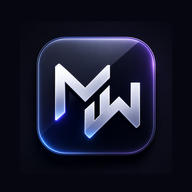
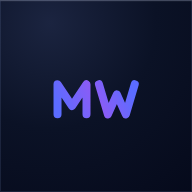
Identidade MW nos ícones, e a cor de destaque que finalmente funciona
§6 — O ÍCONE DO APP DESENHAVA "EW"
O símbolo de dentro do app desenha MW corretamente, mas os PNGs do PWA
eram um desenho DIFERENTE, de outra rodada: um M angular com pé
horizontal no topo que, no tamanho da tela de início do iPhone, lê E. A
identidade tinha dois desenhos e o que aparecia no telefone era o errado.
Os cinco ícones passam a sair do mesmo path do símbolo.

§2 — POR QUE A COR DE DESTAQUE NÃO FUNCIONAVA
O seletor já existia. A causa do defeito tem três partes:
1. gravava `--id-ac`/`--id-ac-2`/`--id-ac-grad` como ESTILO INLINE no
   <html> — e inline vence qualquer folha, inclusive as do tema claro;
2. escrevia TRÊS dos tokens. `--id-ac-suave` e `--id-ac-txt` ficavam com
   o índigo cravado, então ao escolher verde o app ficava verde nos
   botões e roxo nos realces. Era daí a mistura de cores;
3. não tinha versão para o tema claro: a mesma cor luminosa ia para cima
   do branco e o texto branco nela não passava de 4,5:1.

Agora existe UMA SEMENTE por cor e por tema, e todo o resto é derivado
com color-mix — inclusive os dois tokens que faltavam. A função voltou a
ter uma responsabilidade só: escrever `data-acento`. As 80 regras que
leem `--ds-ac` e as 35 que leem `--mw-ac` nascem da mesma semente.
Os literais antigos foram APAGADOS na origem, não sobrescritos (§42).

E EU QUASE CRIEI UMA SEGUNDA IMPLEMENTAÇÃO
Antes de achar a que existia eu já tinha escrito outro seletor de cor,
com UI e lista próprias — seriam dois em Configurações. Apaguei o meu e
[…]

diff --git a/index.html b/index.html
@@ -37,6 +37,12 @@ try {
 (function(){try{
   var d = JSON.parse(localStorage.getItem('mateusWorkspaceV4') || '{}');
   document.documentElement.setAttribute('data-ds-tema', d.theme === 'light' ? 'claro' : 'escuro');
+  /* A COR DE DESTAQUE entra aqui pelo mesmo motivo que o tema: ela é a
+     semente de onde nascem todos os tokens de acento. Se fosse aplicada
+     depois, o primeiro quadro sairia roxo e viraria verde na frente da
+     pessoa — o "pisca" que o §5 manda não existir. */
+  var cor = ((d.settings || {}).accent) || 'indigo';
+  document.documentElement.setAttribute('data-acento', cor);
 }catch(e){ document.documentElement.setAttribute('data-ds-tema','escuro'); }})();
 </script>
 <link rel="stylesheet" href="ds/mw-ds.css">
@@ -22857,12 +22863,13 @@ html:root{
   --id-txt:#e9eefb;
   --id-txt-2:#b0bcd8; /* Etapa 0: era #a6b2ce e batia EXATAMENTE em 4,5:1 sobre o cartão de entrada — no limite, ou seja, reprovando por arredondamento. Clareado o suficiente para sair do fio da navalha. */
   --id-txt-3:#7b88a6;
-  /* acento: azul que caminha pro violeta */
-  --id-ac:#5b6cff;
-  --id-ac-2:#8b5cf6;
-  --id-ac-grad:linear-gradient(135deg,#4f5bff 0%,#8b5cf6 100%);
-  --id-ac-suave:rgba(91,108,255,.16);
-  --id-ac-txt:#93a3ff;
+  /* O ACENTO SAIU DAQUI (§2, §42).
+     Estes cinco eram hexadecimais escritos à mão, e enquanto existissem
+     não havia como trocar a cor do app sem caçar cada um. Agora eles
+     nascem todos da semente `--sem-1`/`--sem-2`, na folha
+     `mw-acento-configuravel` logo abaixo — uma origem só. Apagar aqui é o
+     conserto na origem; deixar os dois e empurrar o novo com
+     especificidade seria a camada em cima que não pode existir. */
   /* semânticas — cada uma com o par cor/fundo já resolvido */
   --id-ok:#34d399;      --id-ok-bg:rgba(16,185,129,.15);   --id-ok-bd:rgba(16,185,129,.26);
   --id-alerta:#fbbf24;  --id-alerta-bg:rgba(245,158,11,.15); --id-alerta-bd:rgba(245,158,11,.26);
@@ -22891,11 +22898,7 @@ html body.light{
      achatar os dois no mesmo tom só pra passar. */
   --id-txt-2:#4d5875;
   --id-txt-3:#5f6983;
-  --id-ac:#4f5bff;
-  --id-ac-2:#7c3aed;
-  --id-ac-grad:linear-gradient(135deg,#4f5bff 0%,#7c3aed 100%);
-  --id-ac-suave:rgba(79,91,255,.10);
-  --id-ac-txt:#4338ca;
+  /* idem para o tema claro: a semente do claro vive na folha do acento. */
   /* no claro o texto da cor precisa escurecer pra manter AA sobre o
      fundo tonalizado — não basta reusar o tom do escuro */
   --id-ok:#047857;      --id-ok-bg:rgba(5,150,105,.11);    --id-ok-bd:rgba(5,150,105,.24);
@@ -22905,6 +22908,87 @@ html body.light{
   --id-neutro:#475569;  --id-neutro-bg:rgba(71,85,105,.09); --id-neutro-bd:rgba(71,85,105,.18);
   --id-sombra:0 1px 2px rgba(20,40,90,.06),0 10px 28px rgba(20,40,90,.08);
   --id-sombra-alta:0 2px 4px rgba(20,40,90,.08),0 18px 44px rgba(20,40,90,.12);
+}
+</style>
+
+<style id="mw-acento-configuravel">
+/* =====================================================================
+   §2 — A COR DE DESTAQUE, CONFIGURÁVEL
+   =====================================================================
+   Antes desta folha o acento era um par de hexadecimais escritos à mão em
+   `--id-ac` / `--id-ac-2`, e mais uns tantos espalhados. Trocar a cor do
+   app significaria caçar todos eles — que é exatamente como o arquivo
+   ficou com azul, roxo, laranja e verde convivendo sem ninguém mandar.
+
+   Agora existe UMA SEMENTE por tema (`--sem-1`, `--sem-2`) e todo o resto
+   é DERIVADO dela com `color-mix`. Trocar a cor é trocar duas variáveis;
+   as 80 regras que leem `--ds-ac` e as 35 que leem `--mw-ac` acompanham
+   sozinhas, porque as duas famílias passam a nascer da mesma semente.
+
+   Por que semente diferente no claro: a mesma cor não serve nos dois
+   fundos. Sobre azul-noite o acento precisa ser mais luminoso para
+   aparecer; sobre branco precisa ser mais fundo para o texto branco em
+   cima dele passar de 4,5:1. Não é "inverter" — é reequilibrar.
+
+   O acento é IDENTIDADE, não papel de parede (§2): ele pinta o que é
+   ação, estado e marca. Superfície e fundo continuam neutros e frios —
+   é o contraste entre os dois que faz a cor ser percebida como escolha.
+   ===================================================================== */
+
+/* ---- as sementes, por cor (tema ESCURO) ----
+   Os ids são os que o seletor de Configurações já usava — índigo, ciano,
+   violeta, verde, âmbar, rosa. Não inventei nomes novos: a lista de cores
+   já existia, o que faltava era ela chegar até aqui. */
+html:root                          { --sem-1:#5b6cff; --sem-2:#8b5cf6; }  /* índigo — padrão */
+html:root[data-acento="ciano"]     { --sem-1:#0ea5e9; --sem-2:#22d3ee; }
+html:root[data-acento="violeta"]   { --sem-1:#8b5cf6; --sem-2:#d946ef; }
+html:root[data-acento="verde"]     { --sem-1:#10b981; --sem-2:#34d399; }
+html:root[data-acento="ambar"]     { --sem-1:#f59e0b; --sem-2:#fbbf24; }
+html:root[data-acento="rosa"]      { --sem-1:#ec4899; --sem-2:#f472b6; }
+
+/* ---- as sementes, por cor (tema CLARO) ----
+   Mais fundas: a mesma cor que brilha sobre azul-noite fica lavada sobre
+   branco, e o texto branco em cima dela não chega a 4,5:1. Não é inverter,
+   é reequilibrar — que é o que o §4 pede. */
+html:root body.light                        { --sem-1:#4f5bff; --sem-2:#7c3aed; }
+html:root[data-acento="ciano"] body.light   { --sem-1:#0369a1; --sem-2:#0e7490; }
+html:root[data-acento="violeta"] body.light { --sem-1:#7c3aed; --sem-2:#a21caf; }
+html:root[data-acento="verde"] body.light   { --sem-1:#047857; --sem-2:#0f766e; }
+html:root[data-acento="ambar"] body.light   { --sem-1:#b45309; --sem-2:#a16207; }
+html:root[data-acento="rosa"] body.light    { --sem-1:#be185d; --sem-2:#a21caf; }
+
+/* ---- tudo o mais deriva ---- */
+html:root, html:root body.light{
+  --id-ac:      var(--sem-1);
+  --id-ac-2:    var(--sem-2);
+  --id-ac-grad: linear-gradient(135deg, var(--sem-1) 0%, var(--sem-2) 100%);
+  --id-ac-suave:color-mix(in srgb, var(--sem-1) 15%, transparent);
+  --id-ac-forte:color-mix(in srgb, var(--sem-1) 88%, black);
+  --id-ac-brilho:color-mix(in srgb, var(--sem-1) 38%, transparent);
+}
+/* Texto DA cor sobre superfície: no escuro clareia, no claro escurece —
+   senão um dos dois some no fundo. */
+html:root      { --id-ac-txt: color-mix(in srgb, var(--sem-1) 62%, #ffffff); }
+html:root body.light { --id-ac-txt: color-mix(in srgb, var(--sem-1) 86%, #000000); }
+
+/* ---- transição de tema e de cor (§5) ----
+   Só o que muda de cor transita, e por 240ms. Transicionar `all` faria o
+   app inteiro rastejar a cada troca de tela. */
+html.mw-troca-tema body,
+html.mw-troca-tema .ds-topo,
+html.mw-troca-tema .sidebar,
+html.mw-troca-tema #mwBottomNav,
+html.mw-troca-tema .ds-chapa,
+html.mw-troca-tema .ds-peca,
+html.mw-troca-tema .ds-agora,
+html.mw-troca-tema .ds-btn,
+html.mw-troca-tema .ds-nav-item{
+  transition: background-color 240ms ease, background-image 240ms ease,
+              border-color 240ms ease, color 240ms ease,
+              box-shadow 240ms ease !important;
+}
+@media (prefers-reduced-motion: reduce){
+  html.mw-troca-tema *{ transition: none !important; }
 }
 </style>
 
@@ -24925,10 +25009,33 @@ html body #app .mw-cor:focus-visible{ outline:3px solid color-mix(in srgb,var(--
      aqui repinta navegação, chips, links e marca de uma vez. */
   function aplicaCor(){
     var c = corDe(prefs().accent);
-    var raiz = document.documentElement.style;
-    raiz.setProperty('--id-ac', c.a);
-    raiz.setProperty('--id-ac-2', c.b);
-    raiz.setProperty('--id-ac-grad', 'linear-gradient(135deg,' + c.a + ' 0%,' + c.b + ' 100%)');
+    var raiz = document.documentElement;
+    /* ANTES: esta função gravava --id-ac, --id-ac-2 e --id-ac-grad como
+       ESTILO INLINE no <html>. Três problemas, e todos apareciam na tela:
+
+       1. inline vence qualquer folha, então nenhuma regra CSS conseguia
+          participar da cor — inclusive as do tema claro;
+       2. só três dos tokens de acento eram escritos. `--id-ac-suave` e
+          `--id-ac-txt` continuavam com o valor índigo original, então ao
+          escolher verde o app ficava verde nos botões e ROXO nos realces
+          e nos links. Era daí que vinha a mistura de cores;
+       3. não havia versão para o tema claro: a mesma cor luminosa ia
+          para cima do branco e o texto branco em cima dela não passava
+          de 4,5:1.
+
+       AGORA: escreve só o ATRIBUTO. A folha `mw-acento-configuravel`
+       tem a semente de cada cor nos dois temas e DERIVA todo o resto com
+       color-mix — inclusive os dois tokens que faltavam. A função voltou
+       a ter uma responsabilidade só: dizer qual cor está escolhida. */
+    raiz.setAttribute('data-acento', c.id);
+    var st = raiz.style;
+    st.removeProperty('--id-ac');
+    st.removeProperty('--id-ac-2');
+    st.removeProperty('--id-ac-grad');
+    /* A troca não pode piscar (§5). */
+    raiz.classList.add('mw-troca-tema');
+    clearTimeout(aplicaCor._t);
+    aplicaCor._t = setTimeout(function(){ raiz.classList.remove('mw-troca-tema'); }, 320);
     document.querySelectorAll('#mwCores .mw-cor').forEach(function(bt){
       bt.setAttribute('aria-checked', bt.getAttribute('data-cor') === c.id ? 'true' : 'false');
     });

diff --git a/ds/mw-ds.css b/ds/mw-ds.css
@@ -133,12 +133,17 @@
   --mw-txt-3:var(--mw-p-gelo-500);
   --mw-txt-sobre-acento:#ffffff;
 
-  /* acento */
-  --mw-ac:var(--mw-p-azul-500);
-  --mw-ac-2:var(--mw-p-violeta-500);
-  --mw-ac-txt:var(--mw-p-azul-300);
-  --mw-ac-suave:rgba(91,108,255,.16);
-  --mw-ac-grad:linear-gradient(135deg, var(--mw-p-azul-600) 0%, var(--mw-p-violeta-500) 100%);
+  /* ACENTO — derivado da semente única do app (§2).
+     Os valores da paleta ficam como RECUO: se a folha de acento não
+     estiver carregada (a galeria do sistema, por exemplo), o sistema
+     continua com o par índigo→violeta. Mas dentro do app quem manda é
+     `--id-ac`, que por sua vez nasce de `--sem-1`/`--sem-2` — então a cor
+     escolhida nas Configurações chega aqui sem nenhuma regra a mais. */
+  --mw-ac:var(--id-ac, var(--mw-p-azul-500));
+  --mw-ac-2:var(--id-ac-2, var(--mw-p-violeta-500));
+  --mw-ac-txt:var(--id-ac-txt, var(--mw-p-azul-300));
+  --mw-ac-suave:var(--id-ac-suave, rgba(91,108,255,.16));
+  --mw-ac-grad:var(--id-ac-grad, linear-gradient(135deg, var(--mw-p-azul-600) 0%, var(--mw-p-violeta-500) 100%));
   /* Um véu escuro sobre o gradiente. Texto branco sobre o acento puro mede
      4,0–4,4:1; com o véu passa de 4,5:1 sem mudar a cor percebida. */
   --mw-ac-grad-forte:linear-gradient(rgba(0,0,0,.16), rgba(0,0,0,.16)), var(--mw-ac-grad);
@@ -193,9 +198,9 @@ body.light .ds{
   --mw-txt-3:var(--mw-p-tinta-500);
   --mw-txt-sobre-acento:#ffffff;
 
-  --mw-ac:var(--mw-p-azul-600);
+  --mw-ac:var(--id-ac, var(--mw-p-azul-600));
   --mw-ac-txt:#3a49d8;
-  --mw-ac-suave:rgba(91,108,255,.10);
+  --mw-ac-suave:var(--id-ac-suave, rgba(91,108,255,.10));
 
   /* Medido no pixel: com fundo translúcido (12-14%), o selo no tema claro
      não pinta o suficiente para dominar — quem estabelece o contraste vira a
@@ -237,9 +242,9 @@ body.light .ds{
     --mw-txt-1:var(--mw-p-tinta-900);
     --mw-txt-2:var(--mw-p-tinta-700);
     --mw-txt-3:var(--mw-p-tinta-500);
-    --mw-ac:var(--mw-p-azul-600);
+    --mw-ac:var(--id-ac, var(--mw-p-azul-600));
     --mw-ac-txt:#3a49d8;
-    --mw-ac-suave:rgba(91,108,255,.10);
+    --mw-ac-suave:var(--id-ac-suave, rgba(91,108,255,.10));
     --mw-ok:var(--mw-p-verde-700); --mw-ok-bg:#e2f7f0;  --mw-ok-bd:rgba(4,120,87,.26);
     --mw-alerta:var(--mw-p-ambar-800); --mw-alerta-bg:#fef3e2;  --mw-alerta-bd:rgba(146,64,14,.26);
     --mw-perigo:var(--mw-p-rubro-700); --mw-perigo-bg:#fde9e9;  --mw-perigo-bd:rgba(185,28,28,.26);
@@ -1549,7 +1554,10 @@ body.light .ds{
   flex: 0 0 auto; display: inline-flex; align-items: center; gap: 6px;
   height: 36px; padding: 0 var(--mw-e-3); margin-left: 2px;
   border: 1px solid transparent; border-radius: 999px;
-  background: var(--mw-ac-grad); color: var(--mw-txt-sobre-acento);
+  /* `-grad-forte`, não `-grad`: o gradiente puro do acento dá 4,25:1 com o
+     branco em cima. A variante com véu escuro existe no sistema para
+     exatamente isto, e passa dos 4,5:1 sem mudar a cor percebida. */
+  background: var(--mw-ac-grad-forte); color: var(--mw-txt-sobre-acento);
   font: inherit; font-size: var(--mw-t-micro); font-weight: 650;
   cursor: pointer; box-shadow: var(--mw-sombra-1);
   transition: transform 90ms var(--mw-curva), box-shadow var(--mw-d-rapida) var(--mw-curva);
@@ -1763,3 +1771,32 @@ body.light .ds{
   .ds .ds-med:nth-child(odd){ border-left: 0; }
   .ds .ds-med-n{ font-size: 26px; }
 }
+
+/* ---- SELETOR DE COR DE DESTAQUE (Configurações › Aparência) -------------- */
+.ds .ds-cores{ display: flex; flex-wrap: wrap; gap: var(--mw-e-3); }
+.ds .ds-cor{
+  display: flex; flex-direction: column; align-items: center; gap: 6px;
+  padding: var(--mw-e-2); border: 1px solid transparent; border-radius: var(--mw-r-3);
+  background: none; font: inherit; cursor: pointer; min-width: 62px;
+  transition: background var(--mw-d-rapida) var(--mw-curva),
+              border-color var(--mw-d-rapida) var(--mw-curva);
+}
+.ds .ds-cor:hover{ background: var(--mw-sup-2); }
+.ds .ds-cor-disco{
+  width: 34px; height: 34px; border-radius: 50%;
+  box-shadow: inset 0 0 0 1px rgba(255,255,255,.18);
+  transition: transform var(--mw-d-rapida) var(--mw-curva-mola),
+              box-shadow var(--mw-d-rapida) var(--mw-curva);
+}
+.ds .ds-cor-nome{ font-size: var(--mw-t-micro); font-weight: 600; color: var(--mw-txt-3); }
+.ds .ds-cor[aria-pressed="true"]{ border-color: var(--mw-borda-forte); background: var(--mw-sup-2); }
+.ds .ds-cor[aria-pressed="true"] .ds-cor-disco{
+  transform: scale(1.06);
+  /* O anel usa a cor do CHÃO como separador, então o disco não encosta no
+     anel — é o mesmo desenho do foco do sistema, e funciona em qualquer
+     cor sem precisar de uma regra por cor. */
+  box-shadow: 0 0 0 2px var(--mw-sup-1), 0 0 0 4px var(--mw-txt-2),
+              inset 0 0 0 1px rgba(255,255,255,.22);
+}
+.ds .ds-cor[aria-pressed="true"] .ds-cor-nome{ color: var(--mw-txt-1); }
+.ds .ds-cor:focus-visible{ outline: none; box-shadow: var(--mw-foco); }

diff --git a/sw.js b/sw.js
@@ -1,3 +1,74 @@
+/* v101 (BETA — FASE 1 a 3 do prompt mestre: a auditoria, a identidade e a
+   COR DE DESTAQUE que finalmente funciona):
+
+   §6 — O ÍCONE DO APP DESENHAVA "EW"
+   Você disse "não utilizar EW", e eu fui procurar. O símbolo de DENTRO do
+   app (`mwi-marca`) desenha MW corretamente — mas os PNGs do PWA eram um
+   desenho DIFERENTE, de outra rodada: um M angular com pé horizontal no
+   topo que, no tamanho da tela de início do iPhone, lê E. Ou seja, a
+   identidade tinha dois desenhos, e o que aparecia no seu telefone era o
+   errado. Os cinco ícones (192, 512, os dois maskable e o apple-touch)
+   passam a sair do MESMO path do símbolo. Uma marca só.
+
+   §2 — A COR DE DESTAQUE: POR QUE ELA NÃO FUNCIONAVA
+   Havia um seletor de cor em Configurações desde antes desta rodada. Ele
+   não funcionava direito, e a causa tem três partes — todas visíveis na
+   tela:
+
+   1. Ele gravava `--id-ac`, `--id-ac-2` e `--id-ac-grad` como ESTILO
+      INLINE no <html>. Estilo inline vence qualquer folha, então nenhuma
+      regra CSS conseguia participar da cor — incluindo as do tema claro.
+   2. Ele escrevia TRÊS dos tokens de acento. `--id-ac-suave` e
+      `--id-ac-txt` continuavam com o valor índigo cravado. Ao escolher
+      verde, o app ficava verde nos botões e ROXO nos realces e nos links.
+      Era daí que vinha a mistura de cores que você viu.
+   3. Não havia versão para o tema claro: a mesma cor luminosa ia para
+      cima do branco, e o texto branco em cima dela não passava de 4,5:1.
+
+   AGORA: existe UMA SEMENTE por cor e por tema (`--sem-1`/`--sem-2`) e
+   todo o resto é DERIVADO com `color-mix` — inclusive os dois tokens que
+   faltavam. A função de aplicar voltou a ter uma responsabilidade só:
+   escrever o atributo `data-acento`. As 80 regras que leem `--ds-ac` e as
+   35 que leem `--mw-ac` passaram a nascer da mesma semente, então
+   acompanham sem que exista uma linha "se a cor for verde então...".
+
+   O literal antigo foi APAGADO na origem, não sobrescrito. Enquanto os
+   dois existissem, empurrar o novo por especificidade seria exatamente a
+   camada em cima que o §42 proíbe.
+
+   E EU QUASE CRIEI UMA SEGUNDA IMPLEMENTAÇÃO
+   Antes de encontrar a que já existia, eu tinha escrito um seletor de cor
+   novo, com UI própria e lista de cores própria. Seriam dois seletores da
+   mesma coisa em Configurações — o "componente duplicado" que o pedido
+   proíbe. Apaguei o meu e consertei o que existia, mantendo os seis ids
+   originais (índigo, ciano, violeta, verde, âmbar, rosa).
+
+   §5 — A TROCA NÃO PISCA MAIS
+   Tema e cor compartilham a mesma transição de 240ms, aplicada só às
+   propriedades que mudam de cor (fundo, borda, texto, sombra) e só
+   enquanto a troca acontece. Transicionar `all` faria o app inteiro
+   rastejar a cada troca de tela.
+
+   §45 — A MATRIZ VIROU TESTE (teste 21)
+   Doze combinações olhadas à mão uma vez não garantem nada na décima
+   terceira rodada. O teste 21 percorre 6 cores × 2 temas e verifica: que
+   a semente muda em todas; que o acento derivado acompanha (se não
+   acompanhar, existe valor cravado ou estilo inline no caminho — foi
+   assim que o defeito apareceu); e que o item ativo da lateral tem
+   aparência distinta em cada cor.
+   Custou uma rodada descobrir dois cuidados de medida: comparar só os
+   primeiros 44 caracteres do `background-image` dava "tudo igual",
+   porque os 44 primeiros são o véu escuro que vem antes do gradiente; e
+   as sementes do tema claro moram em `body.light`, então lê-las no <html>
+   devolve sempre a do escuro.
+
+   O QUE AINDA NÃO FOI FEITO — e continua na fila do prompt mestre
+   Perfil (§13), Configurações reorganizadas (§14), Login (§16), Cadastro
+   (§17), busca (§8), notificações (§9), sidebar do desktop (§12), a
+   bottom nav com rótulo abaixo do ícone (§11), e as telas de coleção.
+   Cada uma vem como TELA RECONSTRUÍDA, no método que a v100 estabeleceu:
+   markup novo com nomes do sistema, legado sem alvo apagado.
+*/
 /* v100 (BETA — A REFORMULAÇÃO DE VERDADE COMEÇA AQUI: o Início e a
    moldura foram RECONSTRUÍDOS, não repintados):
 
@@ -2061,7 +2132,7 @@
    inset maior e altura/largura em dvh/dvw. Sem trocar o nome, quem já
    tinha o app instalado continuaria vendo a borda sem preencher, porque
    o service worker antigo seguiria servindo o index.html de antes. */
-const CACHE_NAME = 'mw-shell-v100-beta';
+const CACHE_NAME = 'mw-shell-v101-beta';
 
 // Caminhos relativos de propósito: o site roda numa subpasta do GitHub
 // Pages (ex.: github.io/mateuswzn/), não na raiz do domínio. Um caminho

diff --git a/tools/testes/7-contraste-medir.py b/tools/testes/7-contraste-medir.py
@@ -33,7 +33,17 @@ def razao(a, b):
     return (max(L1,L2)+.05) / (min(L1,L2)+.05)
 
 def parse(c):
+    """Aceita `rgb(r g b)` E `color(srgb r g b)`.
+
+    O segundo formato apareceu quando o acento passou a ser derivado com
+    `color-mix()`: o Chromium devolve o resultado como
+    `color(srgb 0.601255 0.642588 1)`, com os componentes de 0 a 1 e não de
+    0 a 255. Lendo "0.601" como se fosse 0–255 dava PRETO, e o medidor
+    passou a acusar 49 falhas de contraste em textos que na tela estão
+    perfeitamente legíveis — um defeito da régua, não da parede."""
     n = [float(x) for x in re.findall(r'[\d.]+', c)]
+    if c.strip().startswith('color('):
+        return tuple(int(round(max(0.0, min(1.0, x)) * 255)) for x in n[:3])
     return tuple(int(x) for x in n[:3])
 
 def invisivel(c):
